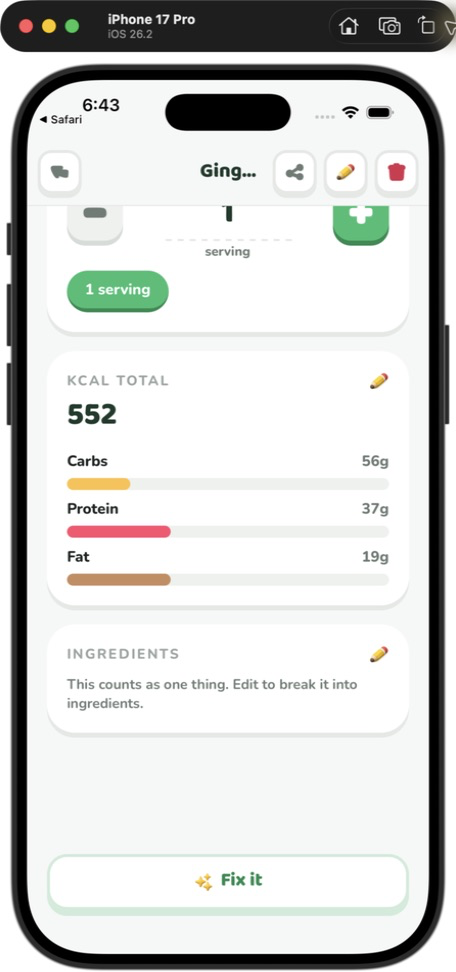
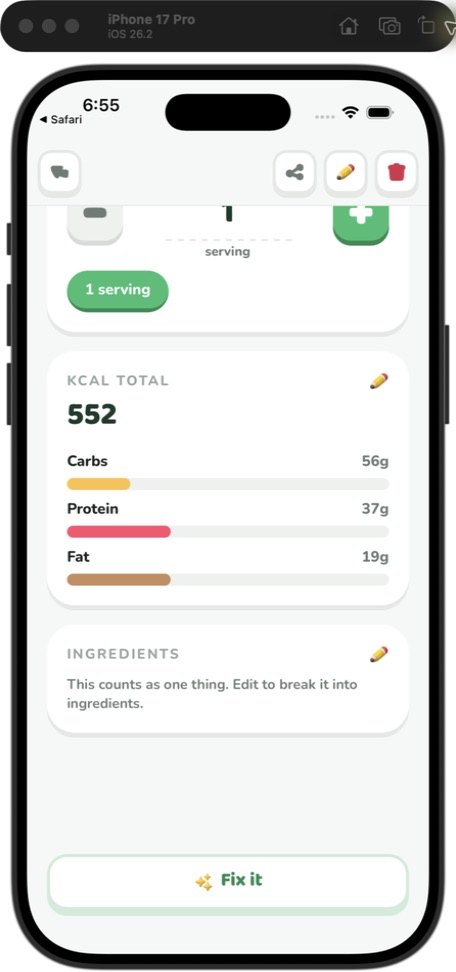
Remove the food title from its crowded header

diff --git a/apps/mobile/src/ui/CollapsingAppBar.tsx b/apps/mobile/src/ui/CollapsingAppBar.tsx
@@ -1,27 +1,23 @@
-import { useState } from 'react'
 import { View } from 'react-native'
 import Reanimated, {
   Extrapolation,
   interpolate,
-  runOnJS,
   type SharedValue,
-  useAnimatedReaction,
   useAnimatedStyle,
 } from 'react-native-reanimated'
 import { useSafeAreaInsets } from 'react-native-safe-area-context'
 
 import { spacing } from '@/theme/tokens'
 import { AppBar, type AppBarProps } from './AppBar'
-import { Text } from './Text'
 
-export type CollapsingAppBarProps = Omit<AppBarProps, 'className' | 'titleContent'> & {
+export type CollapsingAppBarProps = Omit<AppBarProps, 'className' | 'title' | 'titleContent'> & {
   /** The page's vertical scroll offset. */
   scrollY: SharedValue<number>
   /** Offset at which the image's lower edge reaches this bar. */
   revealAt: number
 }
 
-/** How much travel the canvas and title use to replace the image behind them. */
+/** How much travel the canvas uses to replace the image behind it. */
 const TRANSITION_DISTANCE = 48
 
 /**
@@ -29,24 +25,12 @@ const TRANSITION_DISTANCE = 48
  *
  * The controls stay fixed from the first frame. At rest their transparent bar
  * leaves the image visible behind the same raised buttons the old image overlay
- * used. As the image's lower edge reaches them, the canvas and title fade in
- * together. Reversing the scroll reverses the transition instead of toggling a
- * second header on and off.
+ * used. As the image's lower edge reaches them, the canvas fades in beneath the
+ * same controls. This deliberately has no title: four controls already occupy
+ * the row, and a centred food name between them was reduced to a few letters.
  */
-export function CollapsingAppBar({ scrollY, revealAt, title, ...appBar }: CollapsingAppBarProps) {
+export function CollapsingAppBar({ scrollY, revealAt, ...appBar }: CollapsingAppBarProps) {
   const insets = useSafeAreaInsets()
-  const [titleRevealed, setTitleRevealed] = useState(false)
-
-  // Opacity is visual only. Mirror the threshold into React state once per
-  // crossing so a screen reader does not encounter an invisible copy of the
-  // large dish heading while the image is still on screen.
-  useAnimatedReaction(
-    () => scrollY.value >= revealAt,
-    (revealed, previous) => {
-      if (revealed !== previous) runOnJS(setTitleRevealed)(revealed)
-    },
-    [revealAt],
-  )
 
   const surfaceStyle = useAnimatedStyle(() => ({
     opacity: interpolate(
@@ -56,19 +40,6 @@ export function CollapsingAppBar({ scrollY, revealAt, title, ...appBar }: Collap
       Extrapolation.CLAMP,
     ),
   }))
-  const titleStyle = useAnimatedStyle(() => {
-    const progress = interpolate(
-      scrollY.value,
-      [revealAt - TRANSITION_DISTANCE / 2, revealAt + TRANSITION_DISTANCE / 2],
-      [0, 1],
-      Extrapolation.CLAMP,
-    )
-    return {
-      opacity: progress,
-      transform: [{ translateY: interpolate(progress, [0, 1], [4, 0]) }],
-    }
-  })
-
   return (
     <View
       pointerEvents="box-none"
@@ -80,24 +51,7 @@ export function CollapsingAppBar({ scrollY, revealAt, title, ...appBar }: Collap
         className="absolute inset-0 border-b border-line bg-canvas"
         style={surfaceStyle}
       />
-      <AppBar
-        {...appBar}
-        title=""
-        titleContent={
-          title ? (
-            <Reanimated.View
-              style={titleStyle}
-              accessibilityElementsHidden={!titleRevealed}
-              importantForAccessibility={titleRevealed ? 'auto' : 'no-hide-descendants'}
-            >
-              <Text variant="subtitle" className="text-center" numberOfLines={1}>
-                {title}
-              </Text>
-            </Reanimated.View>
-          ) : undefined
-        }
-        className="rounded-none bg-transparent p-0"
-      />
+      <AppBar {...appBar} title="" className="rounded-none bg-transparent p-0" />
     </View>
   )
 }

diff --git a/apps/mobile/app/log/food/[id].tsx b/apps/mobile/app/log/food/[id].tsx
@@ -1002,9 +1002,9 @@ export default function FoodDetail() {
         /* One fixed set of controls for both states. Over the plate the bar is
            transparent, preserving the existing raised buttons on the image. As
            the plate's lower edge reaches it, `CollapsingAppBar` fades in the
-           canvas and dish title underneath those same controls. */
+           canvas underneath those same controls. The food name stays in the
+           body; four controls leave no honest room for it in this row. */
         <CollapsingAppBar
-          title={dishName}
           scrollY={headerScrollY}
           revealAt={heroHeight - (insets.top + spacing.sm * 2 + 44)}
           onBack={() => goBack()}

diff --git a/README.md b/README.md
@@ -790,9 +790,11 @@ centred wordmark and close control are likewise fixed outside its `Screen`.
 
 The logged-food page is the full-bleed exception. `CollapsingAppBar` keeps one
 set of controls fixed over the hero image, then fades in the canvas and the
-one-line dish title as the image's lower edge reaches the bar. Scrolling back
-reverses the same transition. There are never two sets of live controls, and a
-caller does not rebuild the back/title/action row to get the image treatment.
+divider as the image's lower edge reaches the bar. The food name stays in the
+body because Back plus three actions leave no useful title width in that row.
+Scrolling back reverses the same transition. There are never two sets of live
+controls, and a caller does not rebuild the back/action row to get the image
+treatment.
 
 **The quick selector's inline search hands off to the search page.** A dish
 picked there is opened by replacing the sheet with `log/search`, carrying the
